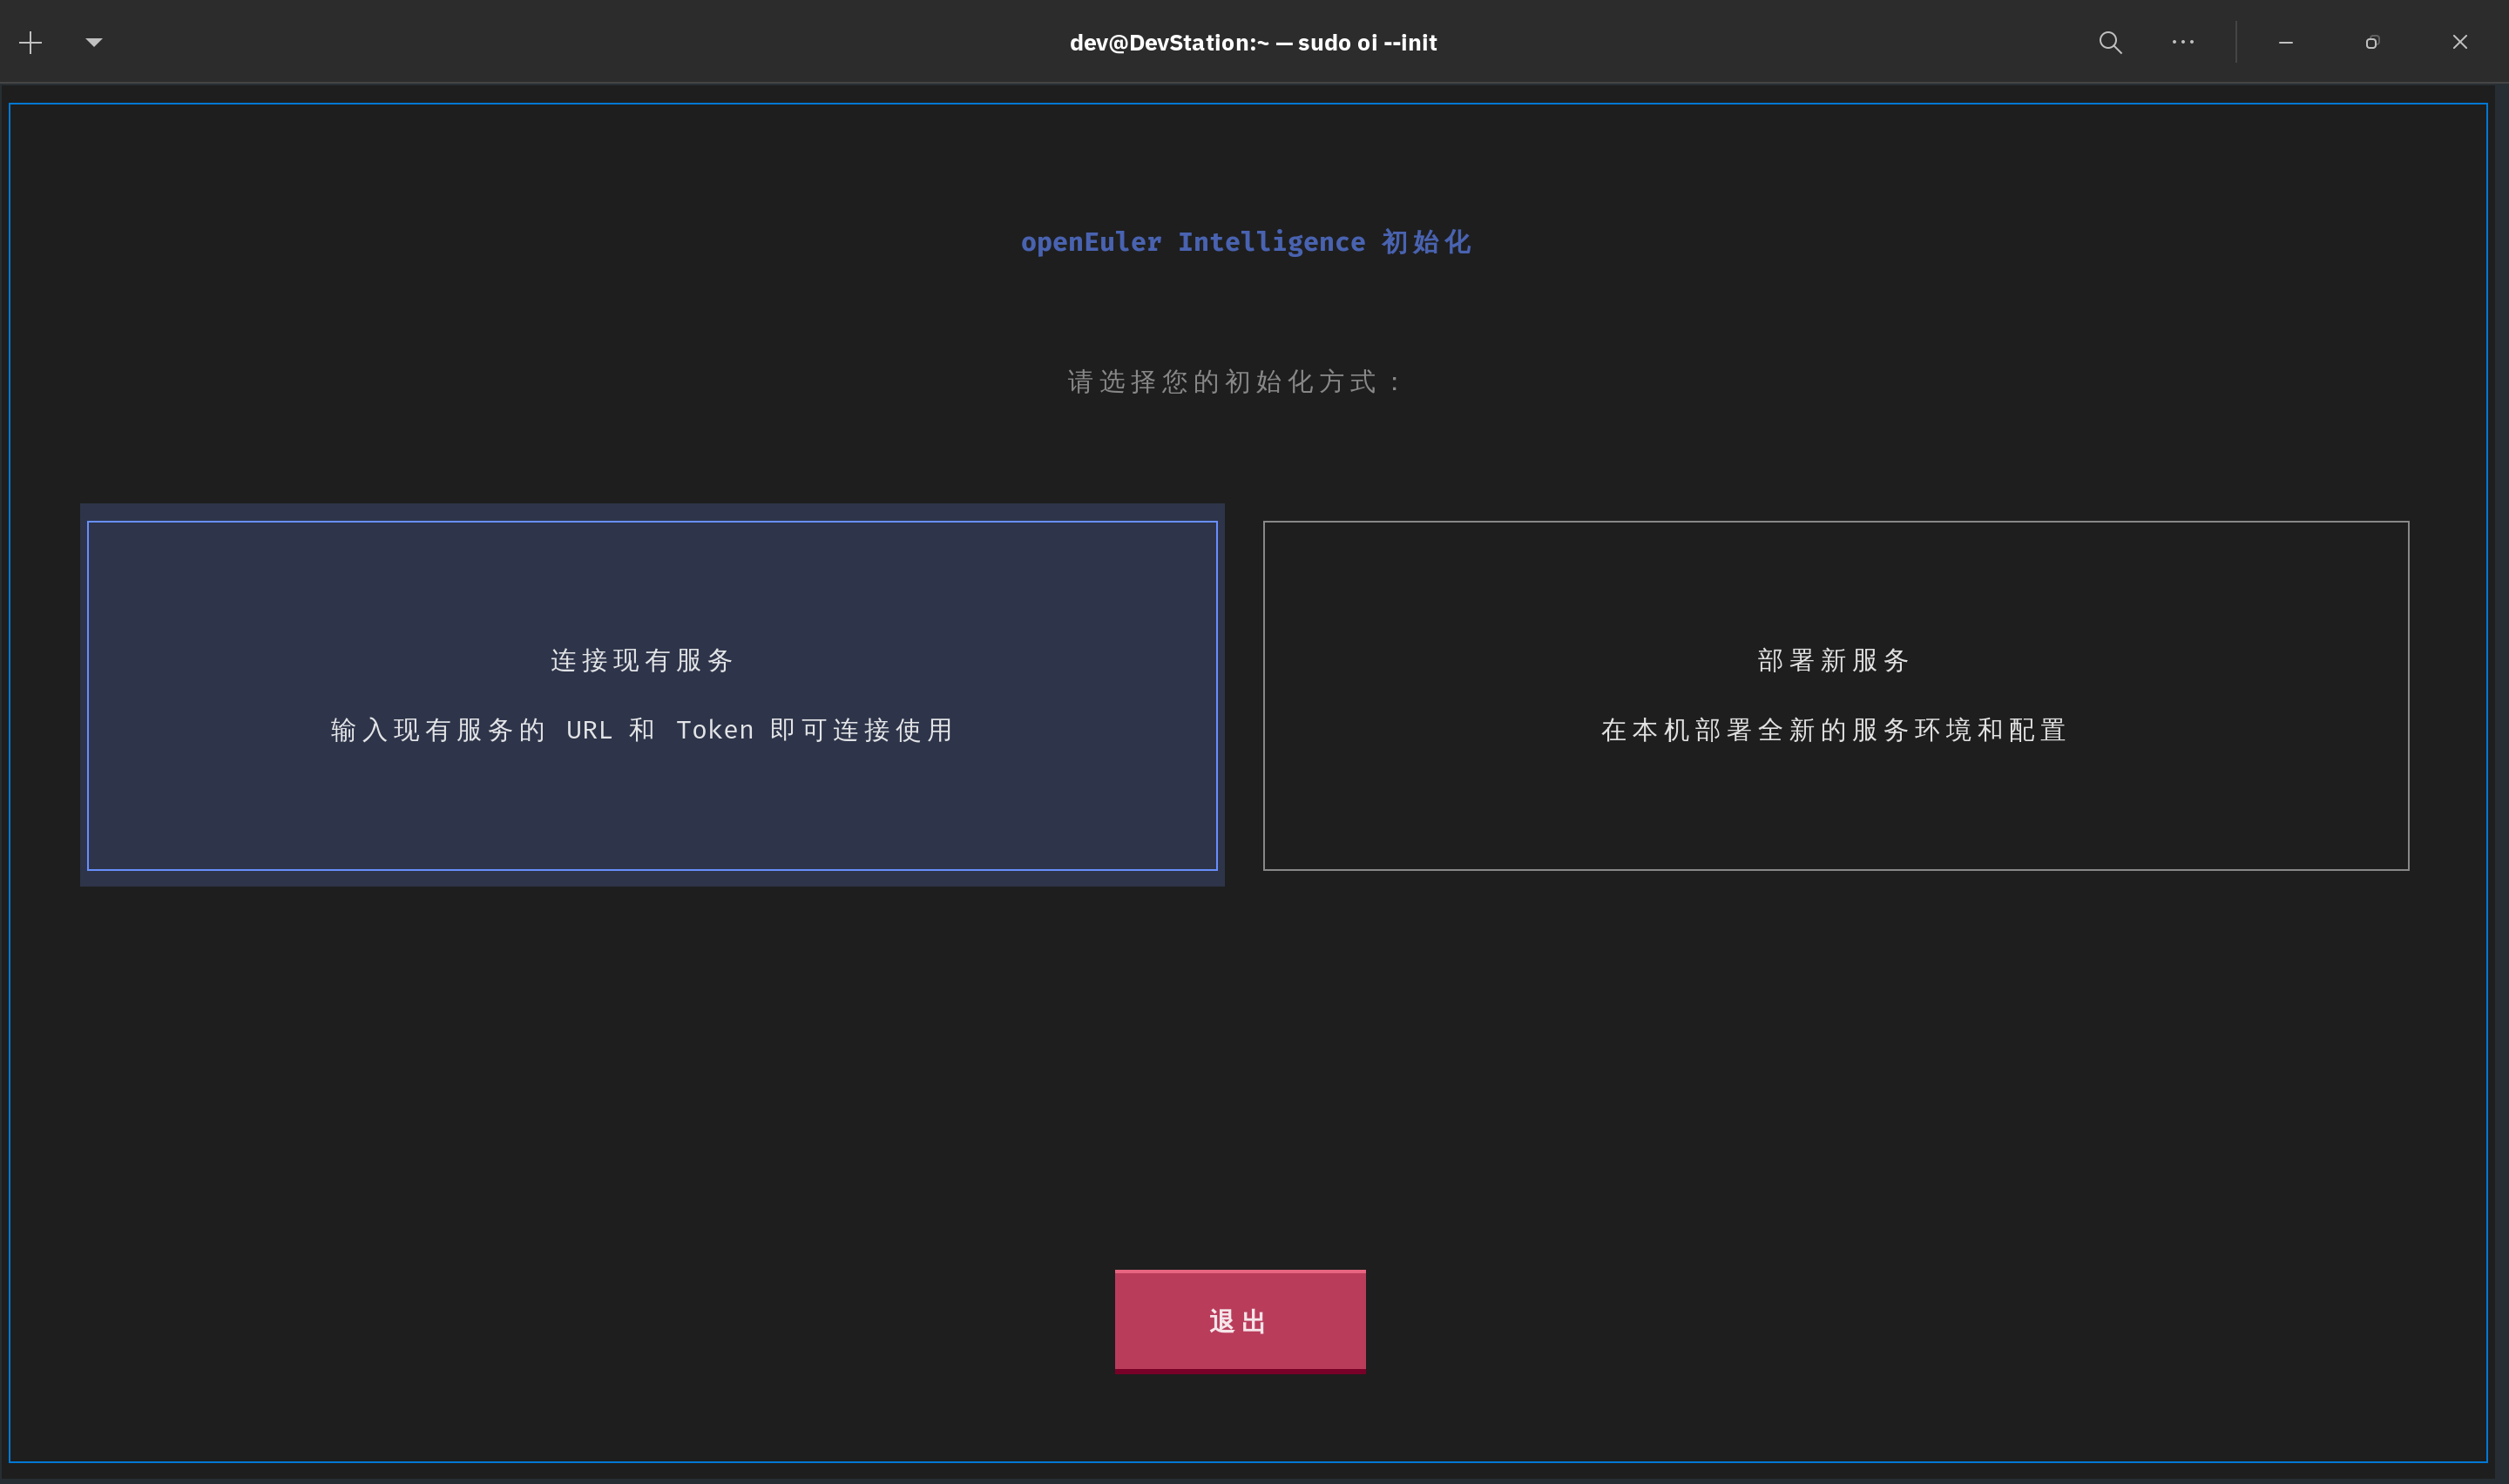
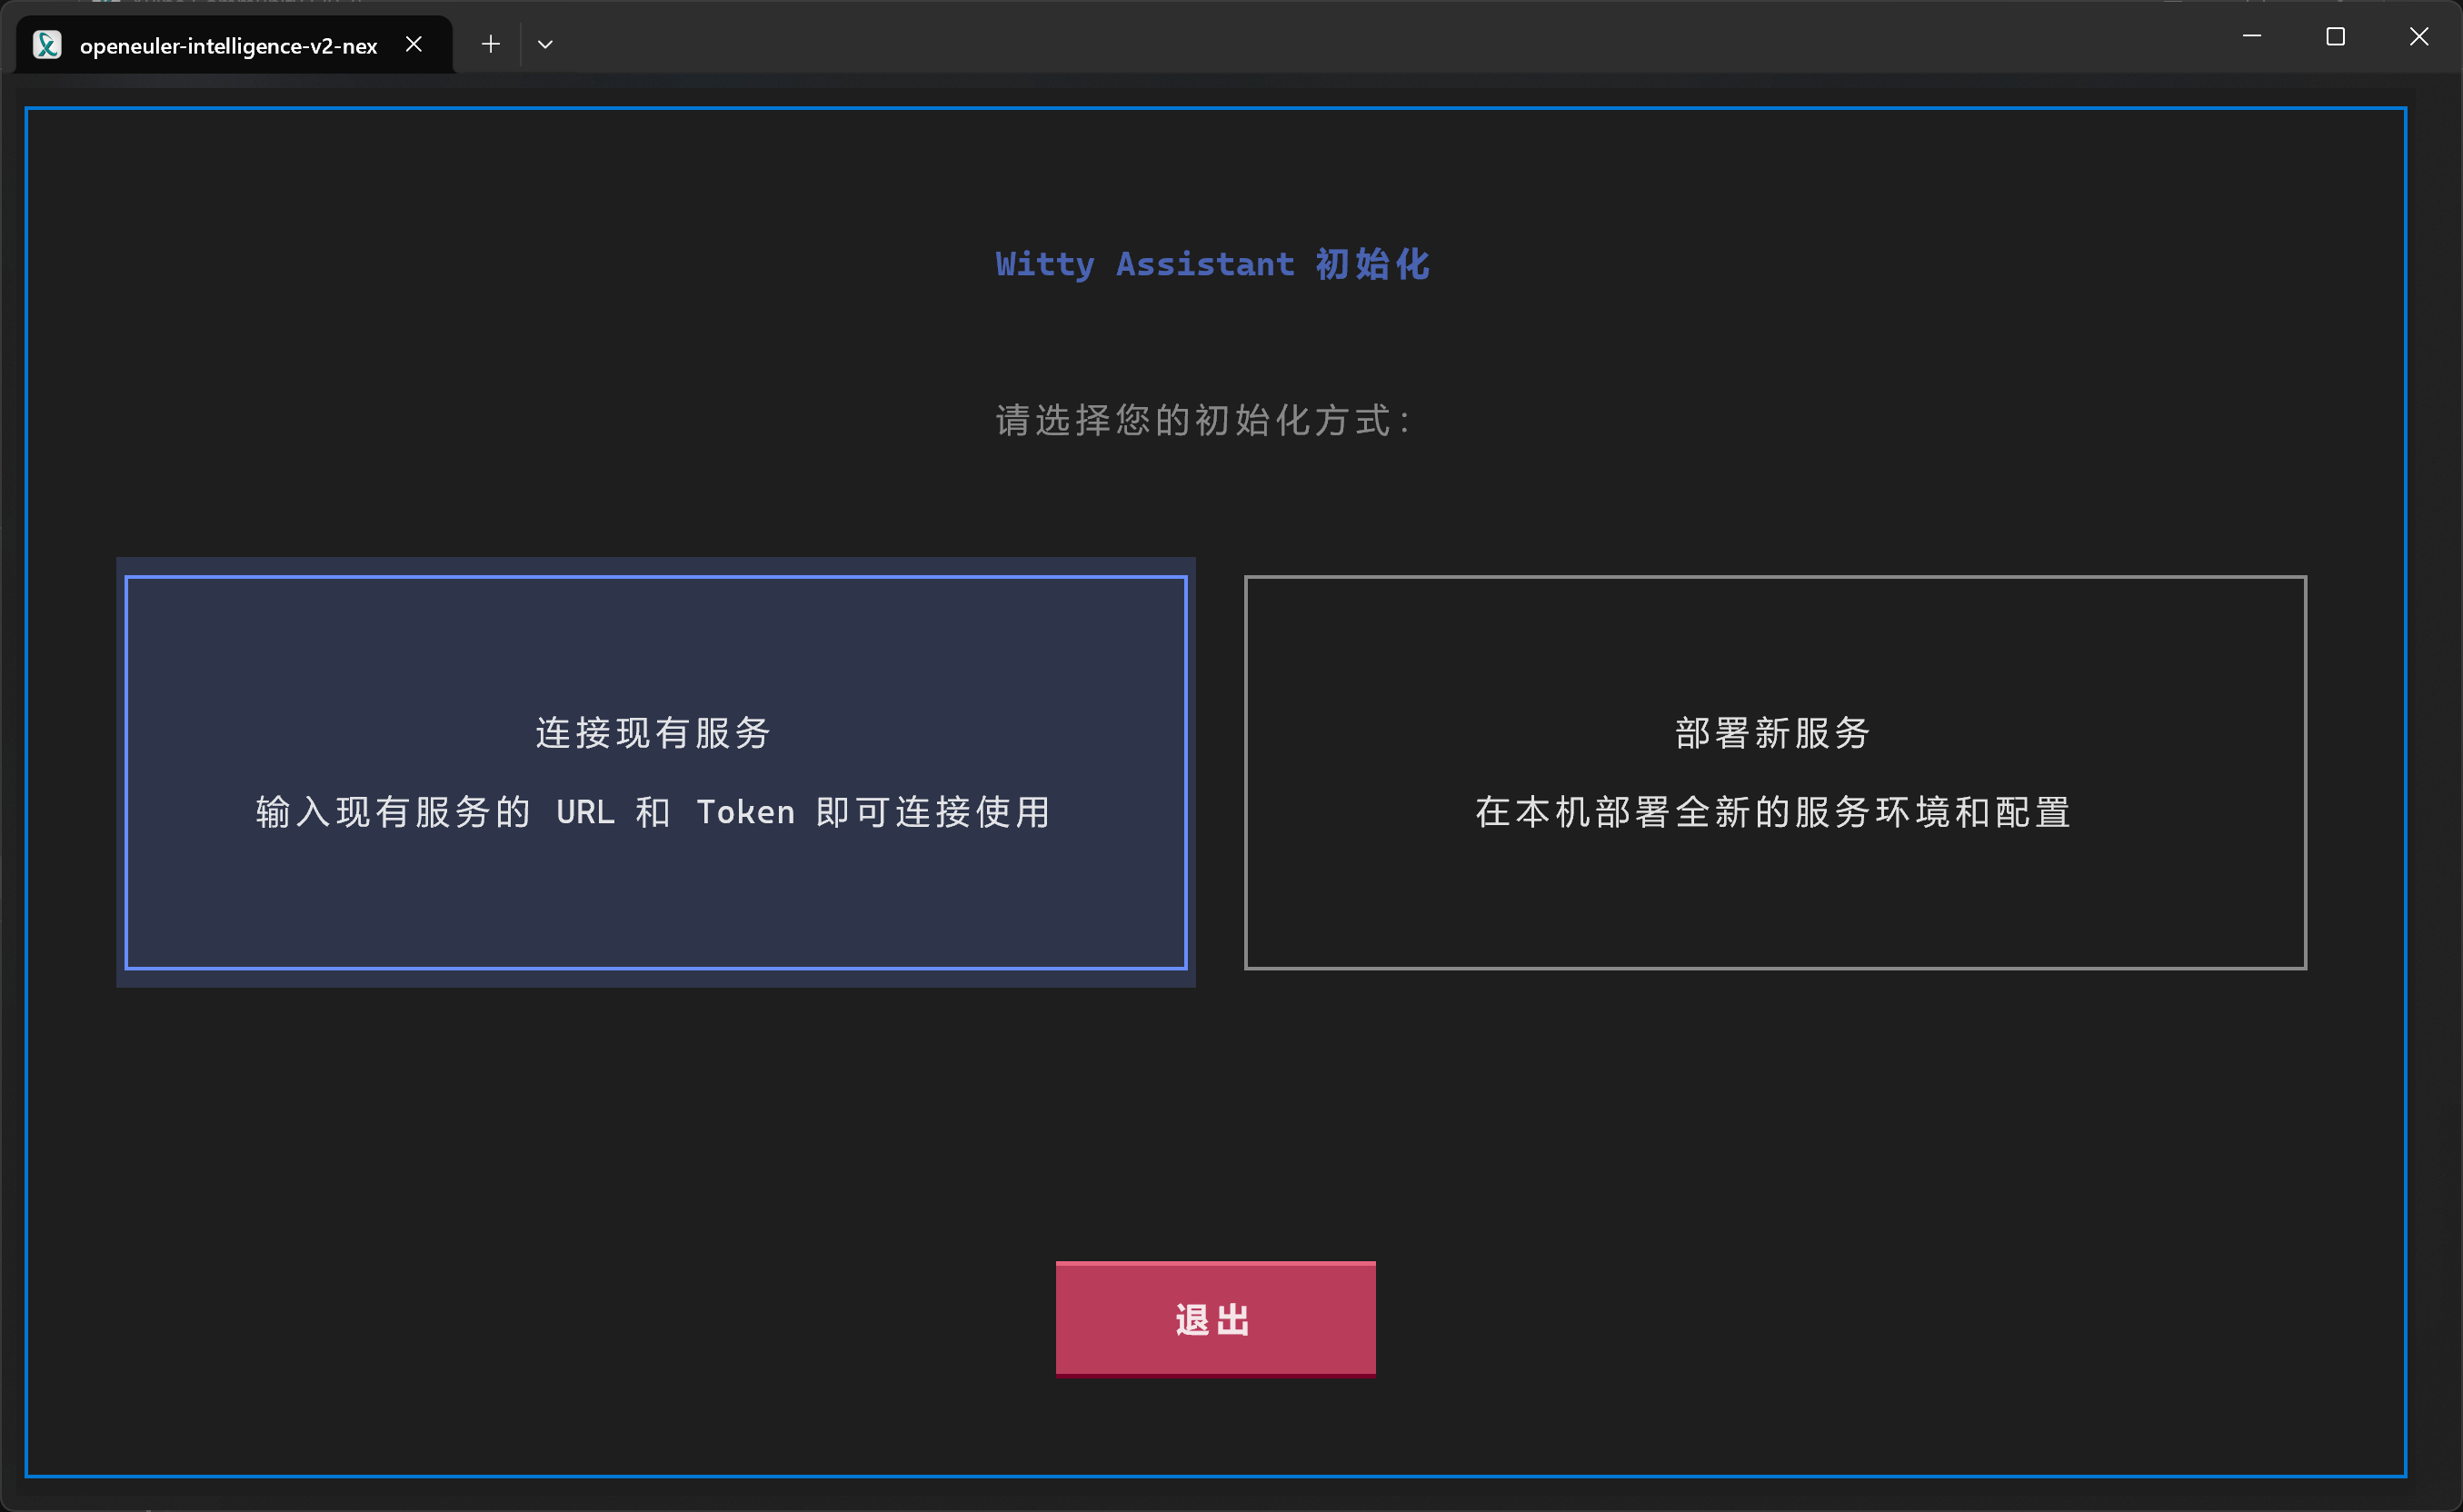
docs: update init doc for Witty Assistant 2.0

diff --git a/docs/部署手册.md b/docs/部署手册.md
@@ -1,42 +1,44 @@
-# Witty Assistant 部署手册
+# Witty Assistant 后端服务初始化手册
+
+本手册适用于 Witty Assistant 2.0.0 版本。
 
 ## 1. 环境要求
 
-- **操作系统**：openEuler 24.03 LTS SP2 或更高版本
+- **操作系统**：openEuler 24.03 LTS SP3 或更高版本
 - **内存**：至少 8GB RAM
 - **存储**：至少 20GB 可用磁盘空间
 - **网络**：稳定的互联网连接（如果无法访问外部网络，请提前下载所需资源，详见 Q&A）
 - **大模型服务**：
-  - 线上：需要能支持工具调用的线上大模型 API 访问权限，如百炼、DeepSeek Chat、GLM-4.5 等
-  - 本地：支持部署在本地的 LLM 服务，如 llama-server、ollama、vLLM、LM Studio 等，需要部署支持工具调用能力的大模型，如 Qwen3、GLM-4.5、Kimi K2、DeepSeek 3.2 等
+  - 线上：需要能支持工具调用的线上大模型 API 访问权限，如百炼、DeepSeek Chat、智谱、MiniMax、硅基流动等
+  - 本地：支持部署在本地的 LLM 服务，如 llama-server、ollama、vLLM、LM Studio 等，需要部署支持工具调用能力的大模型，如 Qwen3、DeepSeek 3.2、GLM-4.7、MiniMax M2.1、Kimi K2 等
 - **系统权限**：需要具备 sudo 权限以安装必要的软件包和依赖项
 
 ## 2. 安装步骤
 
-### 2.1 安装软件包
+### 2.1 更新系统并安装 Witty Assistant
+
+openEuler 24.03 LTS SP3 标准镜像已默认包含 Witty Assistant，如果需要手动安装，可以执行以下命令：
 
 ```bash
 sudo dnf update -y
 sudo dnf install -y witty-assistant witty-assistant-installer
 ```
 
-如果在 openEuler 24.03 LTS SP2 上找不到 `witty-assistant` 软件包，请参考 Q&A 中的解决方案。
-
 ### 2.2 初始化 Witty Assistant
 
 ```bash
-sudo witty --init
+sudo witty init
 ```
 
 ![选择连接现有服务或部署新服务](./resource/witty-deploy-01-welcome.png)
 
 部署全新服务的过程中涉及安装 RPM 包，请使用具有管理员权限的用户运行该命令。
 
-**特别说明**：命令行客户端的界面样式会随着终端的适配情况出现差异，建议使用支持 256 色及以上的终端模拟器以获得最佳体验。本文档以 openEuler DevStation 内置的 GNOME 终端为例。
+**特别说明**：命令行客户端的界面样式会随着终端的适配情况出现差异，建议使用支持 256 色及以上的终端模拟器以获得最佳体验。本文档以使用 Windows 11 内置的终端通过 SSH 连接到 openEuler 为例。
 
 ### 2.3 选择部署新服务
 
-在欢迎界面选择“部署新服务”，然后按回车键继续。
+在欢迎界面选择“部署新服务”，Witty Assistant 将进行环境检查。
 
 ![选择部署新服务](./resource/witty-deploy-02-env-check.png)
 
@@ -46,14 +48,7 @@ sudo witty --init
 
 在参数配置界面，根据实际情况设置以下参数：
 
-- **服务地址**：设置 sysAgent 服务的 IP，默认值为 `127.0.0.1`；
-- **部署模式**：选择“轻量部署”或“全量部署”，轻量部署模式仅支持命令行界面，默认初始化全部内置的智能体，并自动选择“智能运维助手”为默认智能体；全量部署模式支持图形界面和命令行界面，但需要通过 Web 图形界面手动按需初始化智能体。
-
-![基础配置](./resource/witty-deploy-03-basic.png)
-
-完成基础配置后，点击上方“LLM 配置”标签页，进入大模型配置界面。
-
-![LLM 配置标签页](./resource/witty-deploy-04-llm-tab.png)
+![LLM 配置标签页](./resource/witty-deploy-03-llm-tab.png)
 
 依次配置大模型服务参数：
 
@@ -63,27 +58,59 @@ sudo witty --init
 
 另外，请确保所选大模型支持工具调用能力，否则智能体将无法正常工作。
 
-![填写大模型信息](./resource/witty-deploy-05-llm-fill-in.png)
+![填写大模型信息](./resource/witty-deploy-04-llm-fill-in.png)
 
 **Embedding 模型配置：**
 
-- “轻量部署”模式下，若不配置 Embedding 模型，可能会导致部分智能体功能受限；
-- “全量部署”模式下必须填写 Embedding 模型，否则无法继续部署；
-- 支持的 Embedding 端口格式有 OpenAI 兼容格式和 MindIE 格式，请根据实际情况填写。
+切换到“Embedding 配置”标签页，填写 Embedding 相关参数：
+
+![Embedding 配置标签页](./resource/witty-deploy-05-embd-tab.png)
+
+![填写 Embedding 信息](./resource/witty-deploy-06-embd-fill-in.png)
+
+支持的 Embedding 端口格式有 OpenAI 兼容格式和 MindIE 格式，请根据实际情况填写。
 
 ### 2.5 启动部署
 
 完成大模型配置后，点击下方“开始部署”按钮，启动部署程序。
 
-![开始部署](./resource/witty-deploy-06-start.png)
+![开始部署](./resource/witty-deploy-07-start.png)
 
-![部署进行中](./resource/witty-deploy-07-ing.png)
+![部署进行中](./resource/witty-deploy-08-ing.png)
 
 部署过程可能需要较长时间，请耐心等待。部署完成后，系统会提示成功信息。
 
-![部署完成](./resource/witty-deploy-08-finish.png)
+![部署完成](./resource/witty-deploy-09-finish.png)
 
 轻量部署模式完成后，会显示已经初始化的智能体以及自动配置的默认智能体。
+
+### 2.6 后续配置
+
+部署完成后，您可以进行以下配置：
+
+- **设置默认智能体**（仅适用于 sysAgent 后端）：
+
+  ```bash
+  witty set-default agent
+  ```
+
+- **管理 LLM 配置**（需要管理员权限，仅适用于 sysAgent 后端）：
+
+  ```bash
+  sudo witty llm
+  ```
+
+- **查看日志**：
+
+  ```bash
+  witty logs
+  ```
+
+- **设置日志级别**：
+
+  ```bash
+  witty set-default log-level INFO
+  ```
 
 ## 3. 内网离线环境部署
 
@@ -125,23 +152,9 @@ sudo systemctl restart sysagent
 
 ## 4. 常见问题解答 (Q&A)
 
-### Q1: openEuler 24.03 LTS SP2 搜不到软件包怎么办？
+### Q1: 安装界面的语言如何设置？
 
-**A1**: 官方源默认没有配置 EPOL 仓的 update 源，可以手动添加 EPOL 仓的源配置文件 `/etc/yum.repos.d/openEuler.repo`，内容如下：
-
-```ini
-[update-EPOL]
-name=update-EPOL
-baseurl=https://repo.openeuler.org/openEuler-24.03-LTS-SP2/EPOL/update/main/$basearch/
-metadata_expire=1h
-enabled=1
-gpgcheck=1
-gpgkey=http://repo.openeuler.org/openEuler-24.03-LTS-SP2/OS/$basearch/RPM-GPG-KEY-openEuler
-```
-
-### Q2: 安装界面的语言如何设置？
-
-**A2**: 安装界面的默认语言会根据终端的语言环境变量自动选择。可以通过设置 `LANG` 环境变量来指定语言，例如：
+**A1**: 安装界面的默认语言会根据终端的语言环境变量自动选择。可以通过设置 `LANG` 环境变量来指定语言，例如：
 
 ```bash
 export LANG=zh_CN.UTF-8  # 设置为中文
@@ -151,13 +164,13 @@ export LANG=en_US.UTF-8  # 设置为英文
 部署完成后，如果需要更改界面语言，可以在命令行界面使用以下命令：
 
 ```bash
-witty --locale zh_CN  # 切换到中文
-witty --locale en_US  # 切换到英文
+witty set-default locale zh_CN  # 切换到中文
+witty set-default locale en_US  # 切换到英文
 ```
 
-### Q3: 部署过程中遇到 pip 包下载很慢怎么办？
+### Q2: 部署过程中遇到 pip 包下载很慢怎么办？
 
-**A3**: 可以使用国内的 pip 镜像源，例如清华大学的镜像源。可以通过修改 pip 配置文件来使用清华镜像源：
+**A2**: 可以使用国内的 pip 镜像源，例如清华大学的镜像源。可以通过修改 pip 配置文件来使用清华镜像源：
 
 ```bash
 mkdir -p ~/.pip
@@ -165,9 +178,9 @@ echo "[global]" > ~/.pip/pip.conf
 echo "index-url = https://pypi.tuna.tsinghua.edu.cn/simple" >> ~/.pip/pip.conf
 ```
 
-### Q4: 如果无法访问外网，如何获取所需的依赖包？
+### Q3: 如果无法访问外网，如何获取所需的依赖包？
 
-**A4**: 可以在有外网的环境中下载所需的依赖包，然后通过 U 盘等方式将其拷贝到目标环境中进行安装。具体步骤如下：
+**A3**: 可以在有外网的环境中下载所需的依赖包，然后通过 U 盘等方式将其拷贝到目标环境中进行安装。具体步骤如下：
 
 1. 在有外网的环境中，使用以下命令下载所需的依赖包：
 
@@ -187,22 +200,8 @@ echo "index-url = https://pypi.tuna.tsinghua.edu.cn/simple" >> ~/.pip/pip.conf
 
    将 `/path/to/download/dir` 替换为实际的下载目录，`<package-name>` 替换为实际需要安装的包名。
 
-### Q5: 服务器系统版本受制约，无法升级到 openEuler 24.03 LTS SP2，怎么办？
+### Q4: 服务器系统版本受制约，无法升级到 openEuler 24.03 LTS SP3，怎么办？
 
-**A5**: 可以尝试在当前系统版本上手动安装所需的软件包和依赖项。由于 openEuler 24.03 LTS 以上的版本都使用 6.6 版本的内核和 Python 3.11，因此只需要将 `/etc/os-release` 和 `/etc/openEuler-release` 文件中的版本信息修改为 24.03 LTS SP2 即可。
+**A4**: 可以尝试在当前系统版本上手动安装所需的软件包和依赖项。由于 openEuler 24.03 LTS 以上的版本都使用 6.6 版本的内核和 Python 3.11，因此只需要将 `/etc/os-release` 和 `/etc/openEuler-release` 文件中的版本信息修改为 24.03 LTS SP3 即可。
 
 请注意，使用这种方法安装需要自行准备所需的软件包和依赖项，可能会遇到兼容性问题，建议在测试环境中进行验证后再应用到生产环境中。
-
-### Q6: 全量部署后，如何访问图形界面？
-
-**A6**: 全量部署完成后，可以通过浏览器访问图形界面。默认情况下，图形界面的访问地址为 `http://localhost:8080`。
-
-### Q7: 全量部署后，Shell 端无法连接后端服务怎么办？
-
-**A7**: 如果运行环境支持完整桌面端，例如 DevStation 或 VNC 连接，请运行 `witty --login` 命令打开浏览器登录。注意，首次登录前请先在 Web 端确认已注册有效的账号，并确保浏览器不会拦截弹出窗口。
-
-如果无法使用完整桌面端，例如 SSH 连接或纯命令行环境，请先通过浏览器登录。浏览器正常登录后，需要打开“开发者工具”，从“应用”选项卡中找到“本地存储”，查看 `ECSESSION` 键对应的值。然后在 Shell 端按下 `Ctrl + S` 打开设置页面，找到“API 密钥”输入框，将 `ECSESSION` 的值粘贴进去并保存。保存后，Shell 端即可正常连接后端服务。
-
-### Q8: 全量部署后，如何初始化智能体？
-
-**A8**: 全量部署后，需先在网页端注册名为 `openEuler` 的管理员用户，然后登录图形界面。先在“插件中心”中注册所需的 MCP Server 服务，然后在“应用中心”中创建并配置智能体。具体操作请参考 Web 图形界面的使用手册。